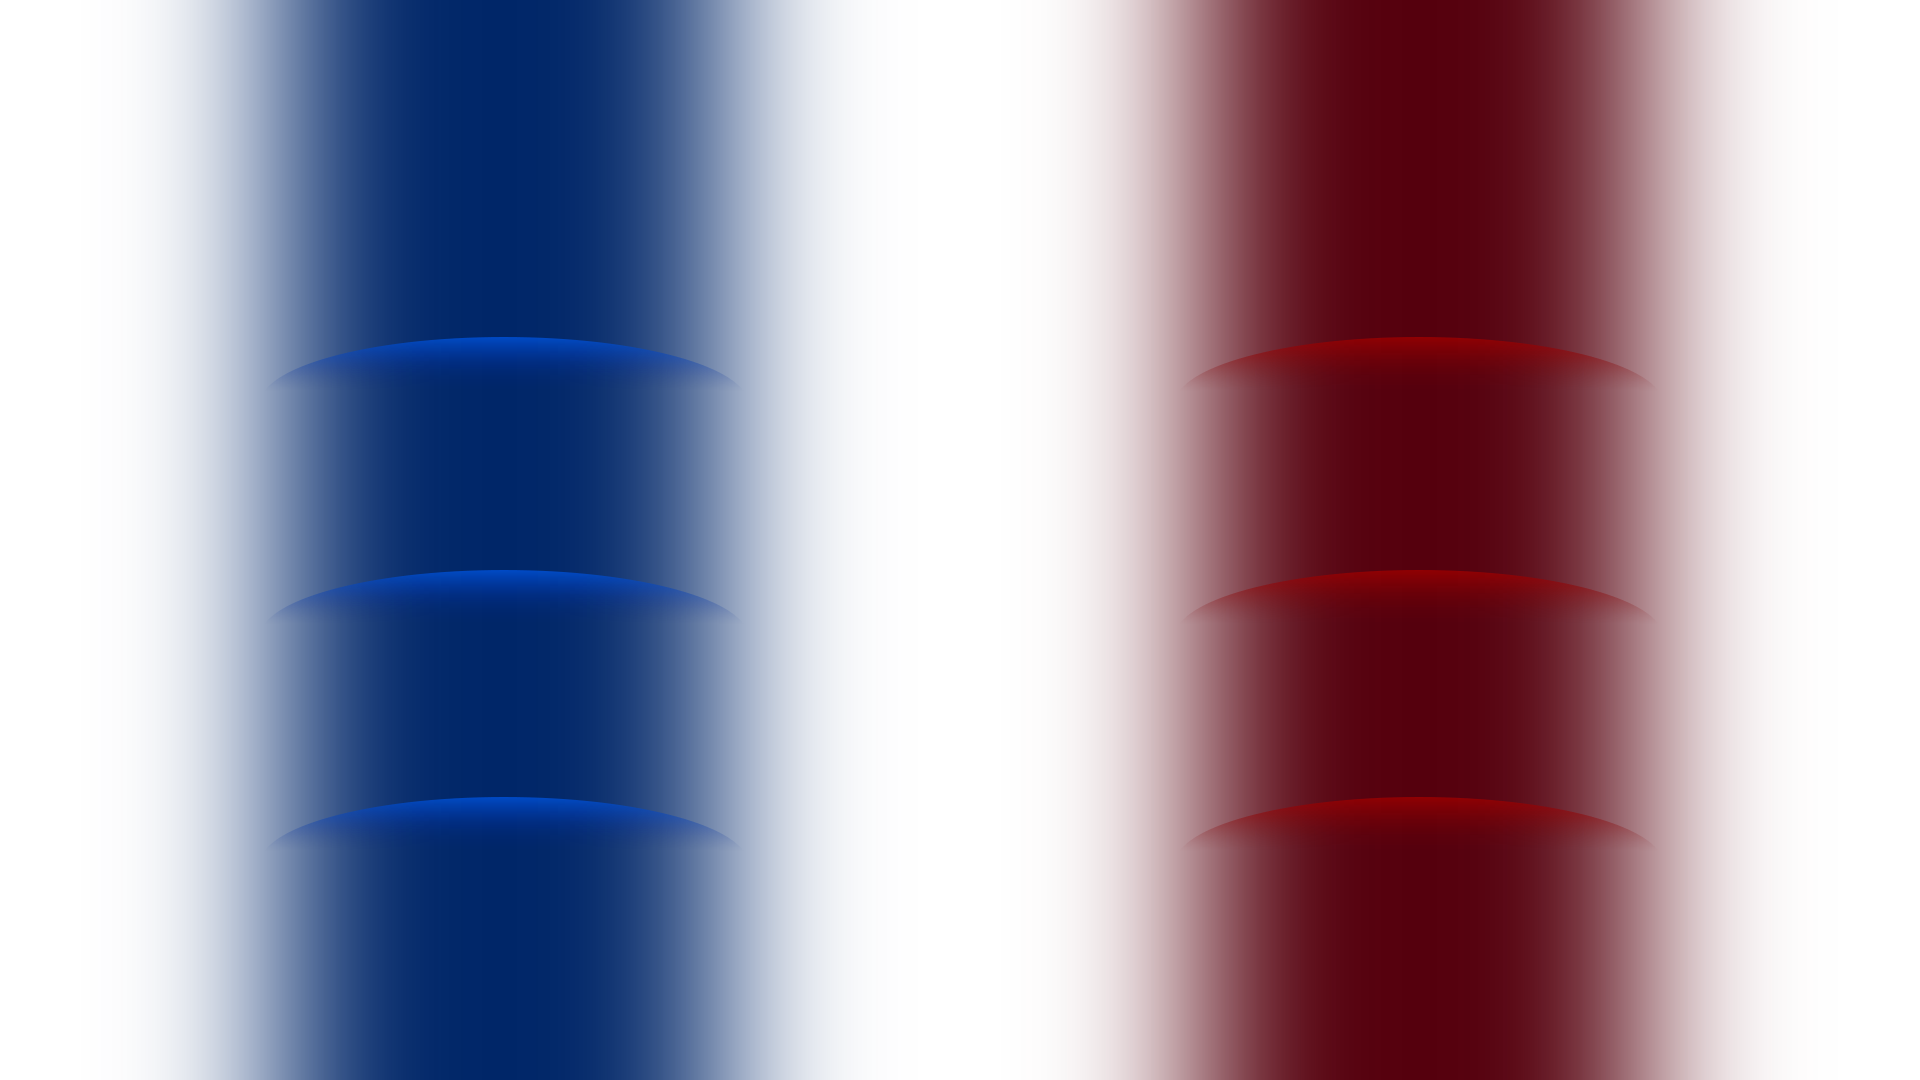
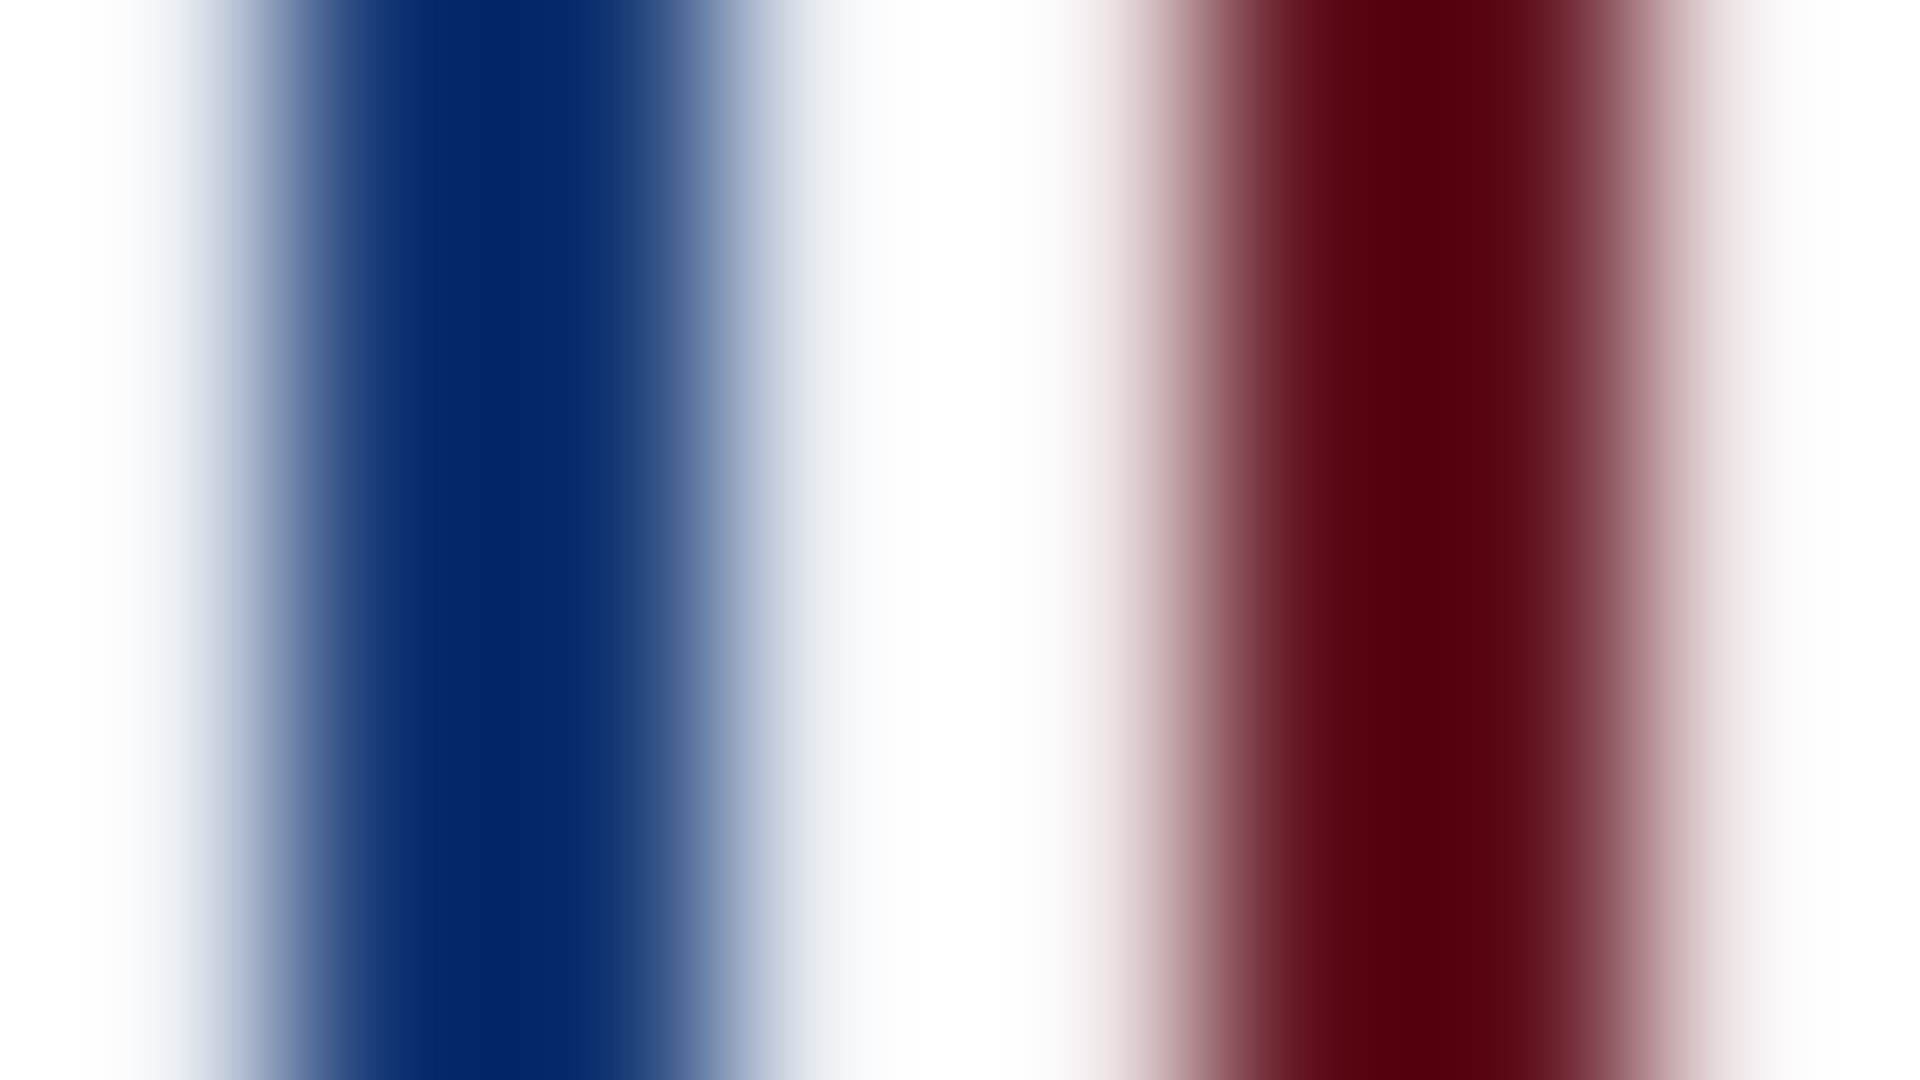
order wave

diff --git a/src/static/view/panel.js b/src/static/view/panel.js
@@ -606,6 +606,7 @@
 	        ];
 	        var invert = 95;
 	        var pickupIdx = 1;
+	        var r = 13;
 	        for (var _i = 0, teamPos_1 = teamPos; _i < teamPos_1.length; _i++) {
 	            var tp = teamPos_1[_i];
 	            for (var i = 0; i < 4; i++) {
@@ -620,6 +621,19 @@
 	                a.x = p.x - this.title.x;
 	                a.y = p.y;
 	                this.title.addChild(a);
+	                var msk = new PIXI.Graphics();
+	                msk.beginFill(0xff0000, 0.5);
+	                msk.moveTo(17, 4);
+	                msk.lineTo(72, 4);
+	                msk.lineTo(72 + r, 4 + r);
+	                msk.lineTo(72 + r, 72);
+	                msk.lineTo(72, 72 + r);
+	                msk.lineTo(17, 72 + r);
+	                msk.lineTo(17 - r, 72);
+	                msk.lineTo(17 - r, 4 + r);
+	                msk.x = a.x;
+	                msk.y = a.y;
+	                this.title.addChild(msk);
 	                pickupIdx++;
 	            }
 	        }
@@ -4282,6 +4296,30 @@
 	        stage.addChild(this);
 	        this.bg = PixiEx_1.newBitmap({ url: '/img/panel/koa/order/bg.png' });
 	        this.addChild(this.bg);
+	        this.portraitArr1p = [];
+	        this.portraitArr2p = [];
+	        for (var i = 0; i < 4; i++) {
+	            var ctn1p = new PIXI.Container();
+	            ctn1p.x = 300;
+	            ctn1p.y = 48 + i * 240;
+	            this.addChild(ctn1p);
+	            ctn1p['sp'] = PixiEx_1.newBitmap({ url: '/img/player/portrait/1.png' });
+	            ctn1p.addChild(ctn1p['sp']);
+	            var bw = PixiEx_1.newBitmap({ url: '/img/panel/koa/order/blueWave.png' });
+	            bw.x = -39;
+	            bw.y = 262;
+	            ctn1p.addChild(bw);
+	            var ctn2p = new PIXI.Container();
+	            ctn2p.x = 1200;
+	            ctn2p.y = 48 + i * 240;
+	            this.addChild(ctn2p);
+	            ctn2p['sp'] = PixiEx_1.newBitmap({ url: '/img/player/portrait/2.png' });
+	            ctn2p.addChild(ctn2p['sp']);
+	            var rw = PixiEx_1.newBitmap({ url: '/img/panel/koa/order/redWave.png' });
+	            rw.x = -39;
+	            rw.y = 262;
+	            ctn2p.addChild(rw);
+	        }
 	    }
 	    return OrderScene;
 	}(PIXI.Container));

diff --git a/src/client/view/panel/koa/Order.ts b/src/client/view/panel/koa/Order.ts
@@ -3,12 +3,47 @@ import { newBitmap } from '../../utils/PixiEx';
  * OrderScene
  */
 export class OrderScene extends PIXI.Container {
-    bg:PIXI.Sprite
+    bg: PIXI.Sprite
+    portraitArr1p: Array<PIXI.Sprite>
+    portraitArr2p: Array<PIXI.Sprite>
     constructor(stage: PIXI.Container) {
         super()
         stage.addChild(this)
-        this.bg = newBitmap({url:'/img/panel/koa/order/bg.png'})
+        this.bg = newBitmap({ url: '/img/panel/koa/order/bg.png' })
         this.addChild(this.bg)
 
+        this.portraitArr1p = []
+        this.portraitArr2p = []
+        for (var i = 0; i < 4; i++) {
+            let ctn1p = new PIXI.Container()
+            ctn1p.x = 300
+            ctn1p.y = 48 + i * 240
+            this.addChild(ctn1p)
+            // let msk = newBitmap({ url: '/img/panel/koa/order/mask.png' })
+            // ctn1p.addChild(msk)
+            // ctn1p['sp'] = new PIXI.Sprite()
+            ctn1p['sp'] = newBitmap({url:'/img/player/portrait/1.png'})// PIXI.Sprite()
+            // ctn1p['sp'].mask = msk
+            ctn1p.addChild(ctn1p['sp'])
+            let bw = newBitmap({ url: '/img/panel/koa/order/blueWave.png' })
+            bw.x = -39
+            bw.y = 262
+            ctn1p.addChild(bw)
+
+            let ctn2p = new PIXI.Container()
+            ctn2p.x = 1200
+            ctn2p.y = 48 + i * 240
+            this.addChild(ctn2p)
+            // let msk = newBitmap({ url: '/img/panel/koa/order/mask.png' })
+            // ctn1p.addChild(msk)
+            // ctn1p['sp'] = new PIXI.Sprite()
+            ctn2p['sp'] = newBitmap({url:'/img/player/portrait/2.png'})// PIXI.Sprite()
+            // ctn1p['sp'].mask = msk
+            ctn2p.addChild(ctn2p['sp'])
+            let rw = newBitmap({ url: '/img/panel/koa/order/redWave.png' })
+            rw.x = -39
+            rw.y = 262
+            ctn2p.addChild(rw)
+        }
     }
 }

diff --git a/src/client/view/panel/koa/Pickup.ts b/src/client/view/panel/koa/Pickup.ts
@@ -79,6 +79,7 @@ export class PickupScene extends PIXI.Container {
         ]
         let invert = 95
         var pickupIdx = 1;
+        let r = 13
         for (let tp of teamPos) {
             for (var i = 0; i < 4; i++) {
                 let p: PickupPlayerInfo = new PickupPlayerInfo({ x: tp.x + i * 95, y: tp.y })
@@ -90,10 +91,28 @@ export class PickupScene extends PIXI.Container {
                 this.playerIdMap[pickupIdx] = p
                 p.pickupIdx = pickupIdx;
 
+
                 let a = newBitmap({ url: '/img/panel/koa/pickup/avatar.png' })
                 a.x = p.x - this.title.x
                 a.y = p.y
                 this.title.addChild(a)
+
+                let msk = new PIXI.Graphics()
+                msk.beginFill(0xff0000, 0.5)
+                msk.moveTo(17, 4)
+                msk.lineTo(72, 4)
+                msk.lineTo(72 + r, 4 + r)
+                msk.lineTo(72 + r, 72)
+                msk.lineTo(72, 72 + r)
+                msk.lineTo(17, 72 + r)
+                msk.lineTo(17 - r, 72)
+                msk.lineTo(17 - r, 4 + r)
+
+                msk.x = a.x
+                msk.y = a.y
+
+                this.title.addChild(msk)
+
                 pickupIdx++
             }
         }
